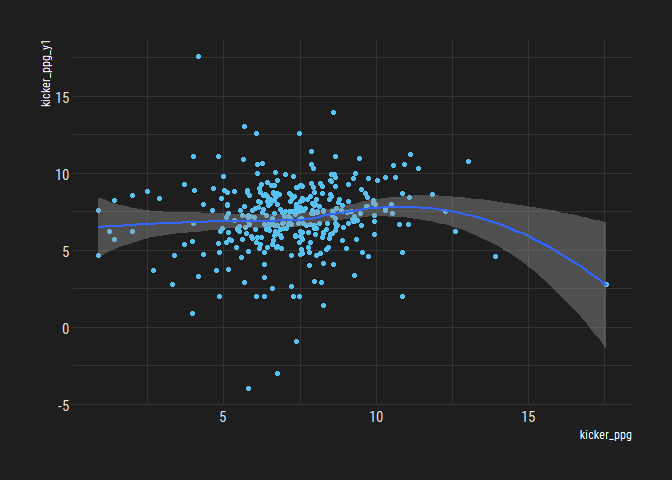
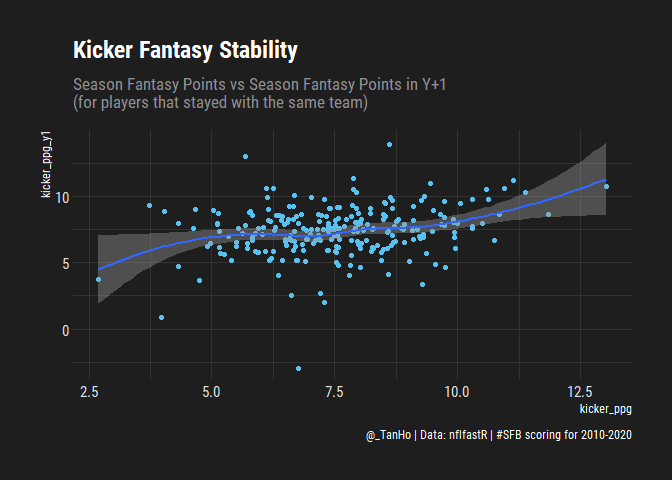
add titles to sfb work

diff --git a/R/kicker_vorp.md b/R/kicker_vorp.md
@@ -38,6 +38,9 @@ suppressPackageStartupMessages({
   
   library(ggridges)
   library(hrbrthemes)
+  
+  options(dplyr.summarise.inform = FALSE)
+  
 })
 
 knitr::opts_chunk$set(echo = TRUE)
@@ -85,11 +88,7 @@ kick_week <- kick_pbp %>%
   mutate(
     kicker_points = field_goal_distance * 0.1 - 3 * field_goal_misses + extra_points_made - extra_points_missed
   )
-```
 
-    ## `summarise()` has grouped output by 'season', 'week', 'kicker_player_id'. You can override using the `.groups` argument.
-
-``` r
 kick_season <- kick_week %>% 
   filter(week <=17) %>% 
   group_by(season, kicker_player_id, kicker_player_name, team) %>% 
@@ -103,8 +102,6 @@ kick_season <- kick_week %>%
   )
 ```
 
-    ## `summarise()` has grouped output by 'season', 'kicker_player_id', 'kicker_player_name'. You can override using the `.groups` argument.
-
 # Player on same team, next season/YOY
 
 ``` r
@@ -115,14 +112,19 @@ kick_season_next <- kick_season %>%
   inner_join(
     x = ., 
     y = kick_season %>% 
-      select(season, kicker_player_id, kicker_points_y1 = kicker_points, kicker_ppg_y1 = kicker_ppg),
-    by = c("next_year"="season","kicker_player_id")
+      select(season, kicker_player_id, kicker_points_y1 = kicker_points,team, kicker_ppg_y1 = kicker_ppg),
+    by = c("next_year"="season","kicker_player_id", "team")
   )
 
 kick_season_next %>% 
   ggplot(aes(x = kicker_ppg, y = kicker_ppg_y1)) +
   geom_point() +
   geom_smooth() + 
+  labs(
+    title = "Kicker Fantasy Stability",
+    subtitle = "Season Fantasy Points vs Season Fantasy Points in Y+1 \n(for players that stayed with the same team)",
+    caption = "@_TanHo | Data: nflfastR | #SFB scoring for 2010-2020"
+  ) + 
   hrbrthemes::theme_modern_rc()
 ```
 
@@ -135,10 +137,14 @@ cor(kick_season_next$kicker_ppg,
     kick_season_next$kicker_ppg_y1)
 ```
 
-    ## [1] 0.09379008
+    ## [1] 0.2411879
 
 There isn’t much stability of points per game for individual kickers who
-return to the same team next year - the correlation is \~ 0.28.
+return to the same team next year - the correlation is \~ 0.24.
+
+Don’t forget that this is a selection bias for kickers - if team kept
+their kicker from previous year, that means the kicker is at least
+passable!
 
 Comparatively, QB/RB/WR/TE PPG YOY correlation is more like 0.4-0.5 -
 and that’s not even relying on them returning to the same team.
@@ -160,11 +166,7 @@ team_kick_week <-  kick_pbp %>%
   mutate(
     kicker_points = field_goal_distance * 0.1 - 3 * field_goal_misses + extra_points_made - extra_points_missed
   )
-```
 
-    ## `summarise()` has grouped output by 'season', 'week'. You can override using the `.groups` argument.
-
-``` r
 team_kick_season <- team_kick_week %>% 
   filter(week <=17) %>% 
   group_by(season, team) %>% 
@@ -176,11 +178,7 @@ team_kick_season <- team_kick_week %>%
   mutate(
     kicker_ppg = kicker_points / games
   )
-```
 
-    ## `summarise()` has grouped output by 'season'. You can override using the `.groups` argument.
-
-``` r
 team_kick_season_next <- team_kick_season %>% 
   mutate(
     next_year = season + 1
@@ -196,6 +194,11 @@ team_kick_season_next %>%
   ggplot(aes(x = kicker_ppg, y = kicker_ppg_y1)) +
   geom_point() +
   geom_smooth() + 
+  labs(
+    title = "Team Kicking Fantasy Stability",
+    subtitle = "Season Fantasy Points vs Season Fantasy Points in Y+1",
+    caption = "@_TanHo | Data: nflfastR | #SFB scoring for 2010-2020"
+  ) + 
   hrbrthemes::theme_modern_rc()
 ```
 
@@ -230,18 +233,23 @@ kick_week_rank %>%
   filter(
     season_rank <= 16
   ) %>% 
-  ggplot(aes(x = kicker_points, y = as.factor(season_rank), color = season_rank)) +
+  mutate(season_rank = fct_rev(as.factor(season_rank))) %>% 
+  ggplot(aes(x = kicker_points, y = season_rank, fill = season_rank)) +
   geom_density_ridges(
     stat = "binline",
     bins = 50,
-    jittered_points = TRUE,
-    
+    colour = "white"
   ) + 
-  # scale_colour_brewer(type = "div") +
-  theme_modern_rc()
+  coord_cartesian(xlim = c(-5, 30)) +
+  xlab("Weekly Fantasy Points") +
+  ylab("Season End Rank") +
+  labs(
+    title = "Variance of Kicker Scoring",
+    caption = "@_TanHo | Data: nflfastR | #SFB scoring for 2010-2020"
+  ) + 
+  theme_modern_rc() +
+  theme(legend.position = "none")
 ```
-
-    ## Warning: Ignoring unknown parameters: jittered_points
 
 ![](kicker_vorp_files/figure-gfm/unnamed-chunk-4-1.png)<!-- -->
 
@@ -301,11 +309,7 @@ sfb_nflfastr_scoring <- nflfastr_weekly() %>%
     fantasy_points = sum(fantasy_points, na.rm= TRUE)
   ) %>% 
   ungroup()
-```
 
-    ## `summarise()` has grouped output by 'season', 'week', 'player_id'. You can override using the `.groups` argument.
-
-``` r
 sfb_season <- sfb_nflfastr_scoring %>% 
   group_by(season, player_id, pos) %>% 
   summarise(
@@ -327,11 +331,7 @@ sfb_season <- sfb_nflfastr_scoring %>%
     season, season_rank
   ) %>% 
   ungroup()
-```
 
-    ## `summarise()` has grouped output by 'season', 'player_id'. You can override using the `.groups` argument.
-
-``` r
 replacement_levels <- sfb_season %>% 
   filter(season_rank == 198) %>% 
   select(season, replacement_level = ppg)
@@ -356,10 +356,12 @@ sfb_vorp %>%
     # ylim = c(-5,25),
     expand = TRUE
   ) +
+  ylab("Value over Replacement (#198)") +
+  xlab("Position Rank") + 
   labs(
     title = "Kickers Don't Matter",
-    subtitle = "Value over Replacement by Position Rank, #SFB11 scoring, 2010:2020",
-    caption = "@_TanHo | Data: nflfastR"
+    subtitle = "Value over Replacement Per Game by Position Rank",
+    caption = "@_TanHo | Data: nflfastR | #SFB scoring for 2010-2020"
   ) + 
   theme_modern_rc()
 ```
